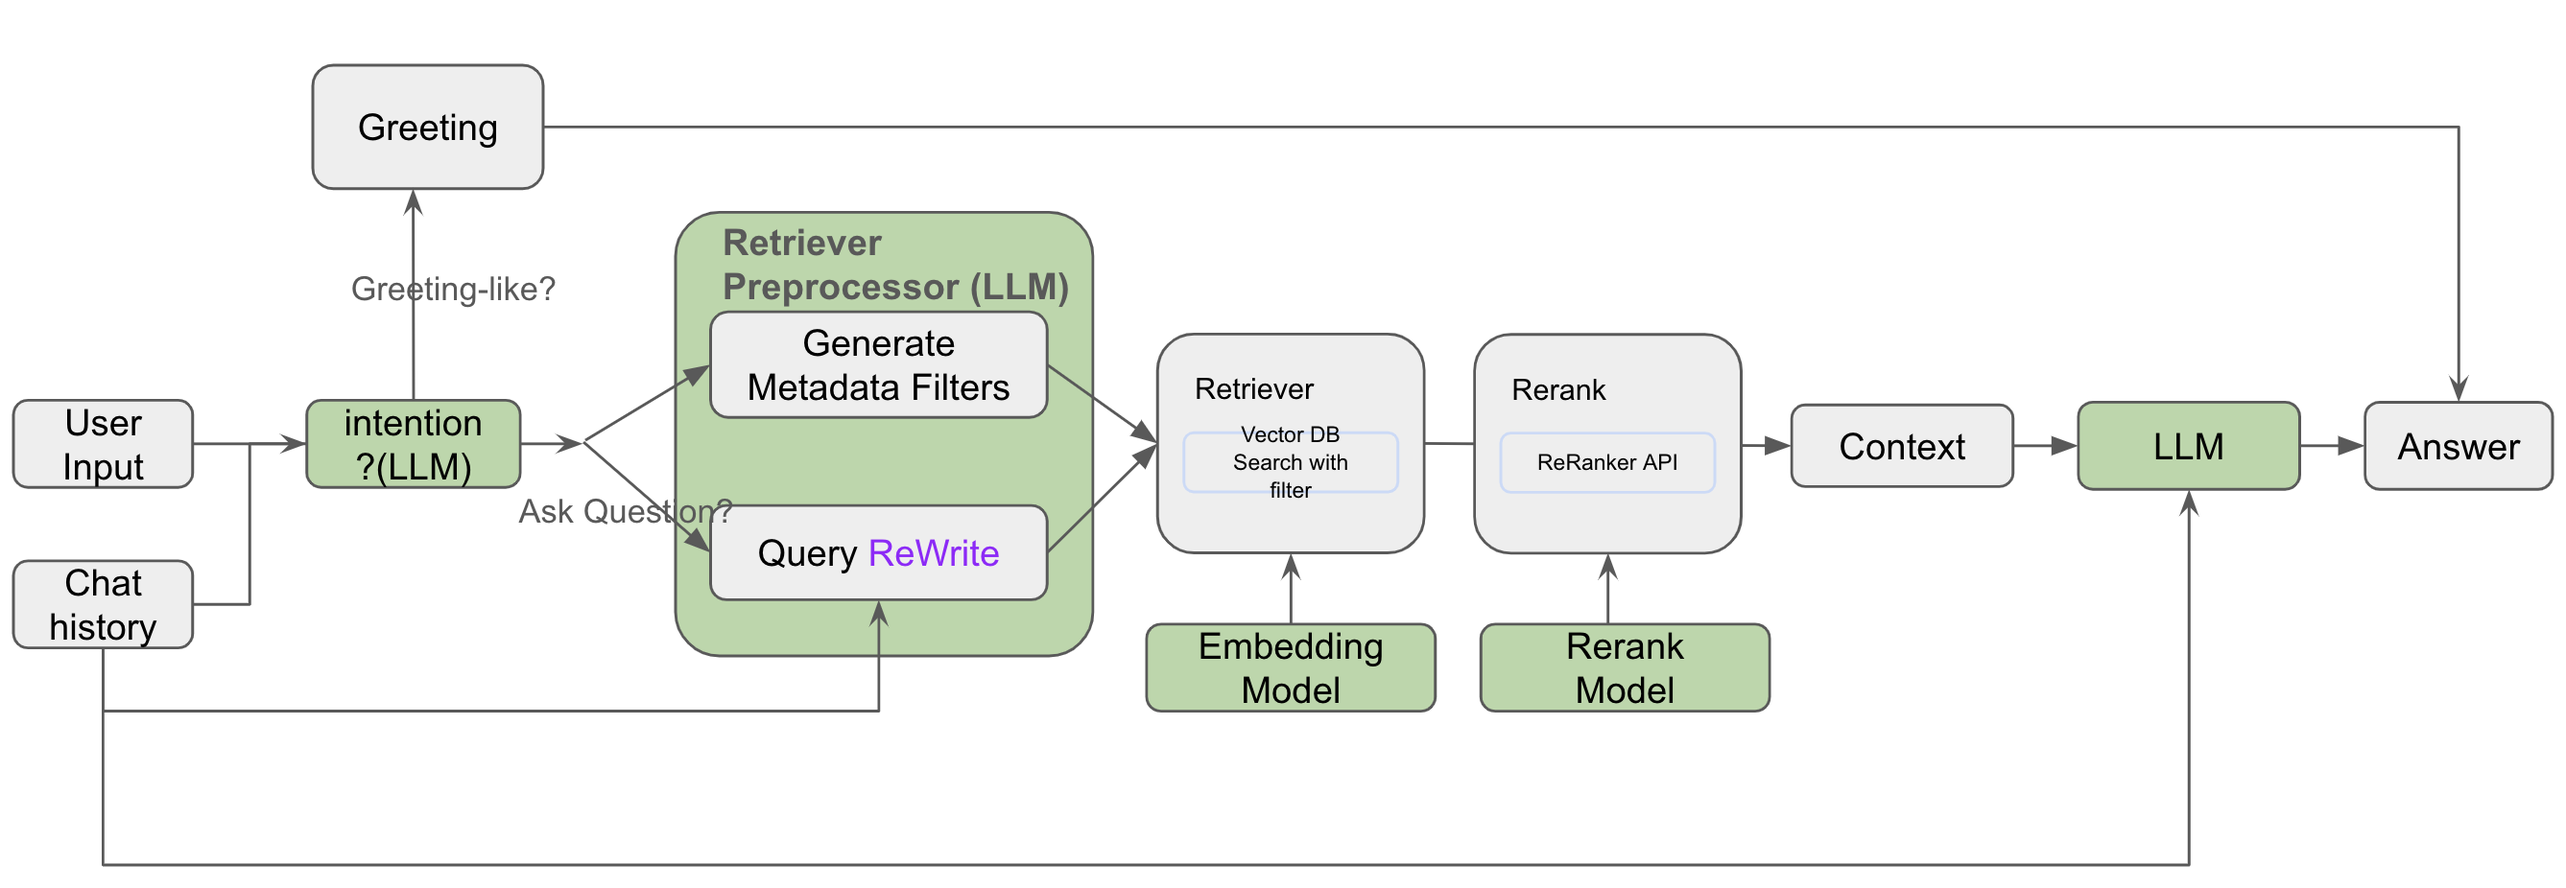
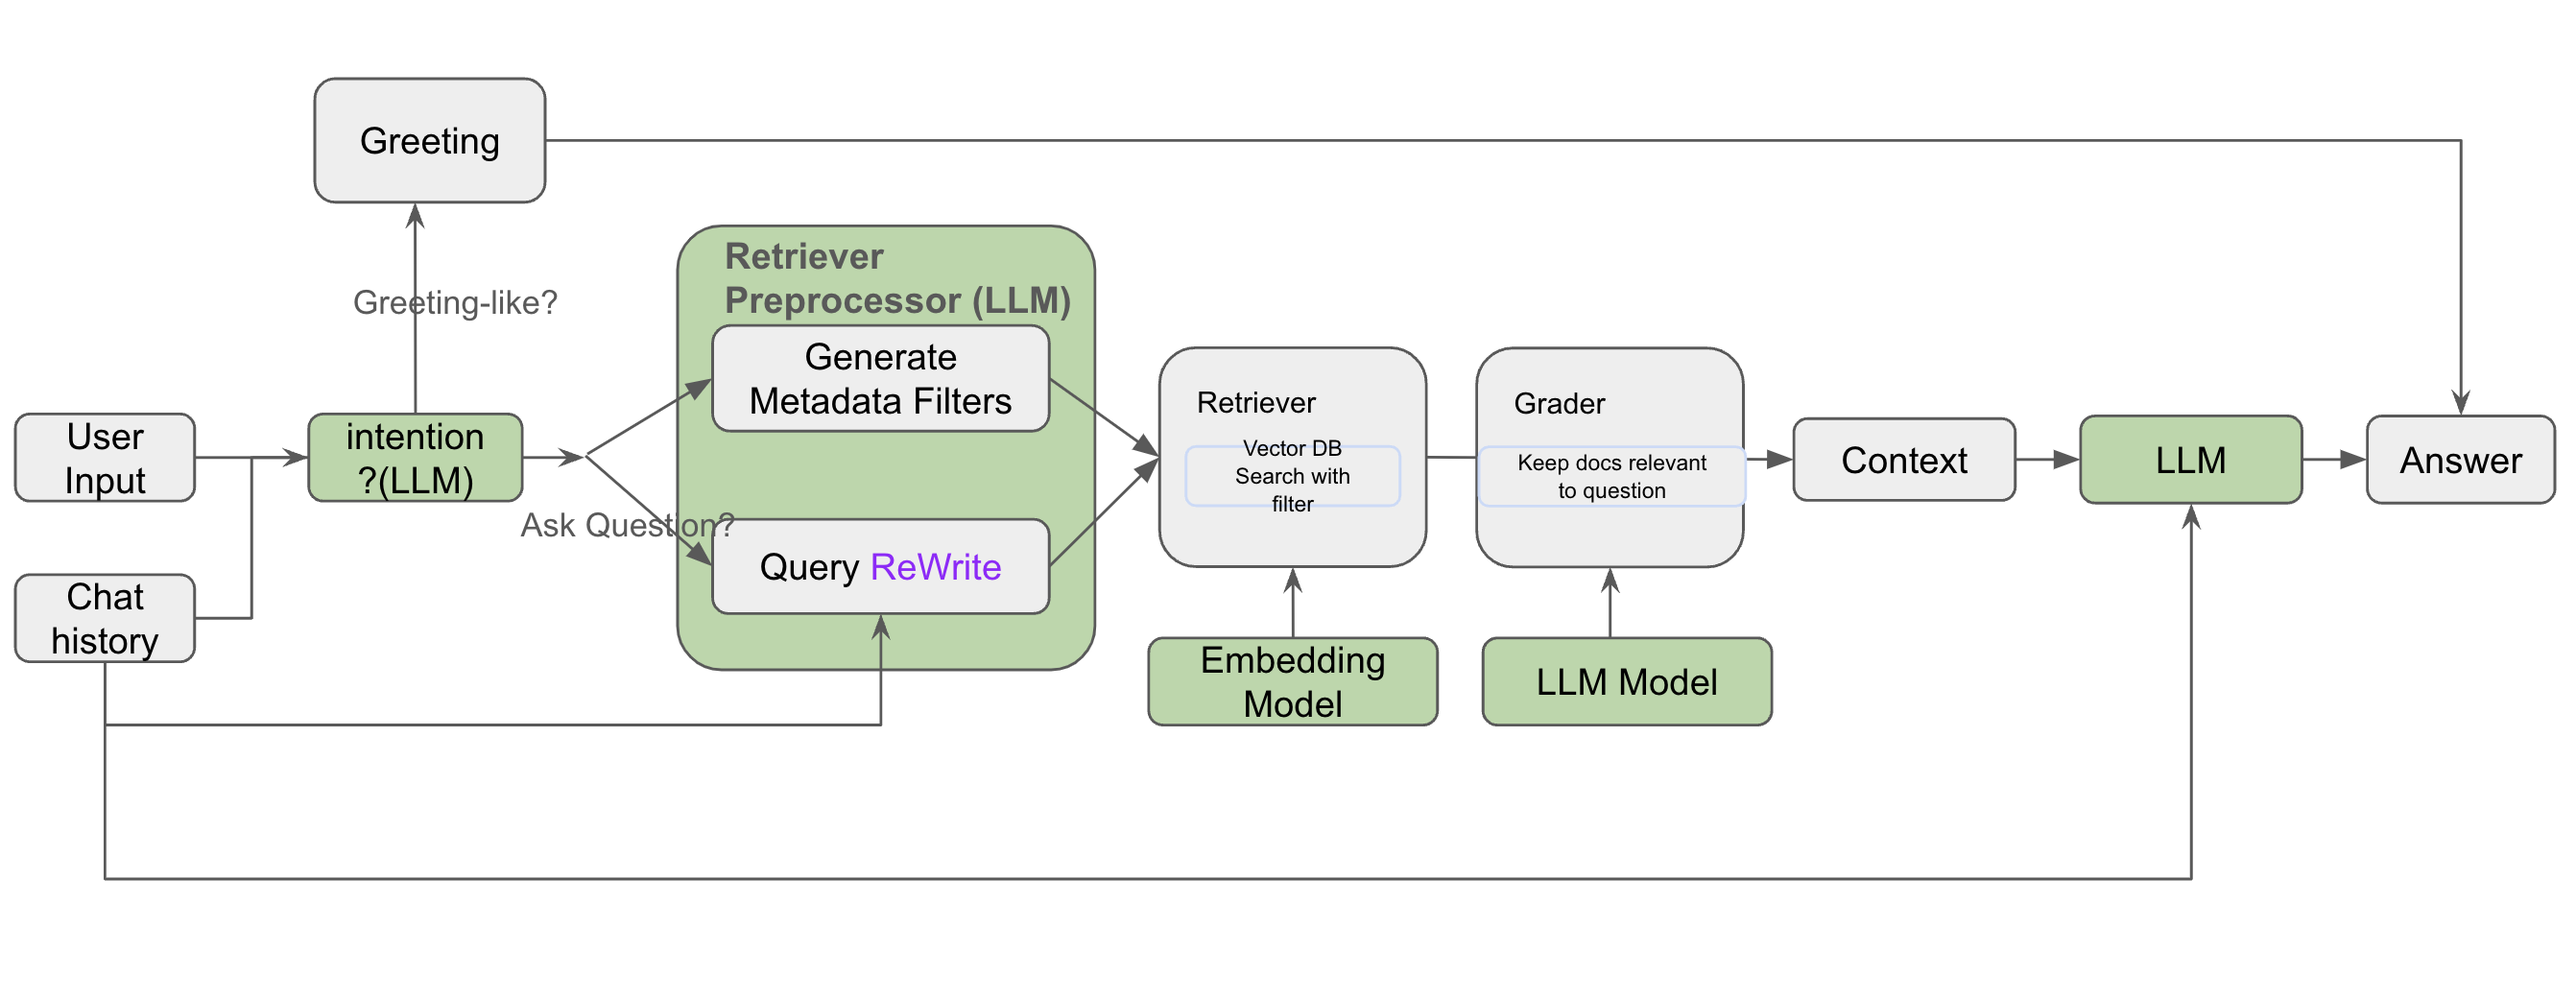
change README: replace Grader with ReRanker

diff --git a/README.md b/README.md
@@ -14,7 +14,7 @@ BobGPT is an AI project that allows you to ask questions about youtube videos.
 1. In the pipeline, a input question will be routed to the proper branch, greeting-like or query & answer(QA). 
 2. When comes to QA, the LLM will do query analysis: extracted attributes as filters and the question will be optimised and rewriten for better vector retrieving in the vector DB. 
 3. The filter conditions and optimised question will be passed to the retriever chain and get some top-k candidates for grading.
-4. The grader chain will take the question and recalled documents as input to get the final relative documents
+4. The grader chain will take the question and documents as the grader input and output the final relative documents
 5. The LLM will do the summarisation based on the reraking output and provide the answer and attach the sources to the user.
 # Install & Run
 Before running below cmd, make sure you have figured out the settings in settings.yaml based on your real scenarios.
